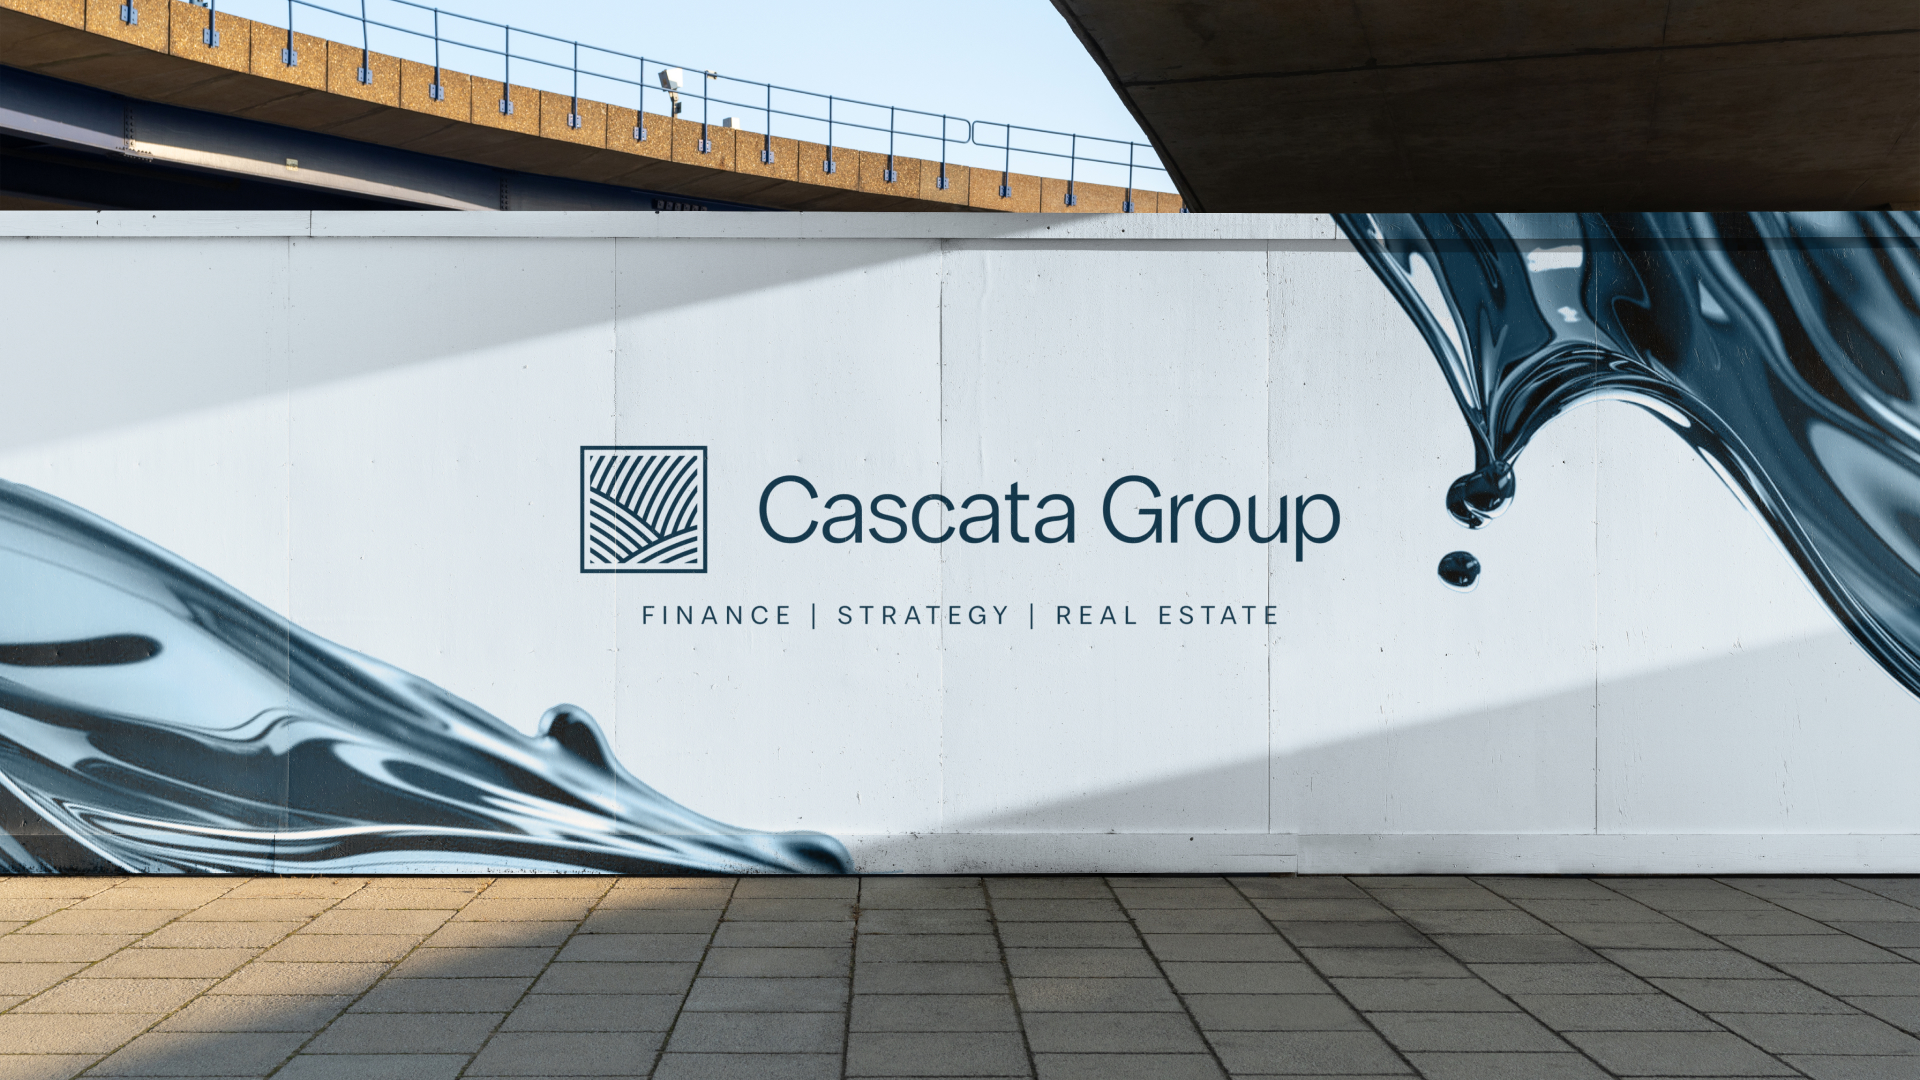
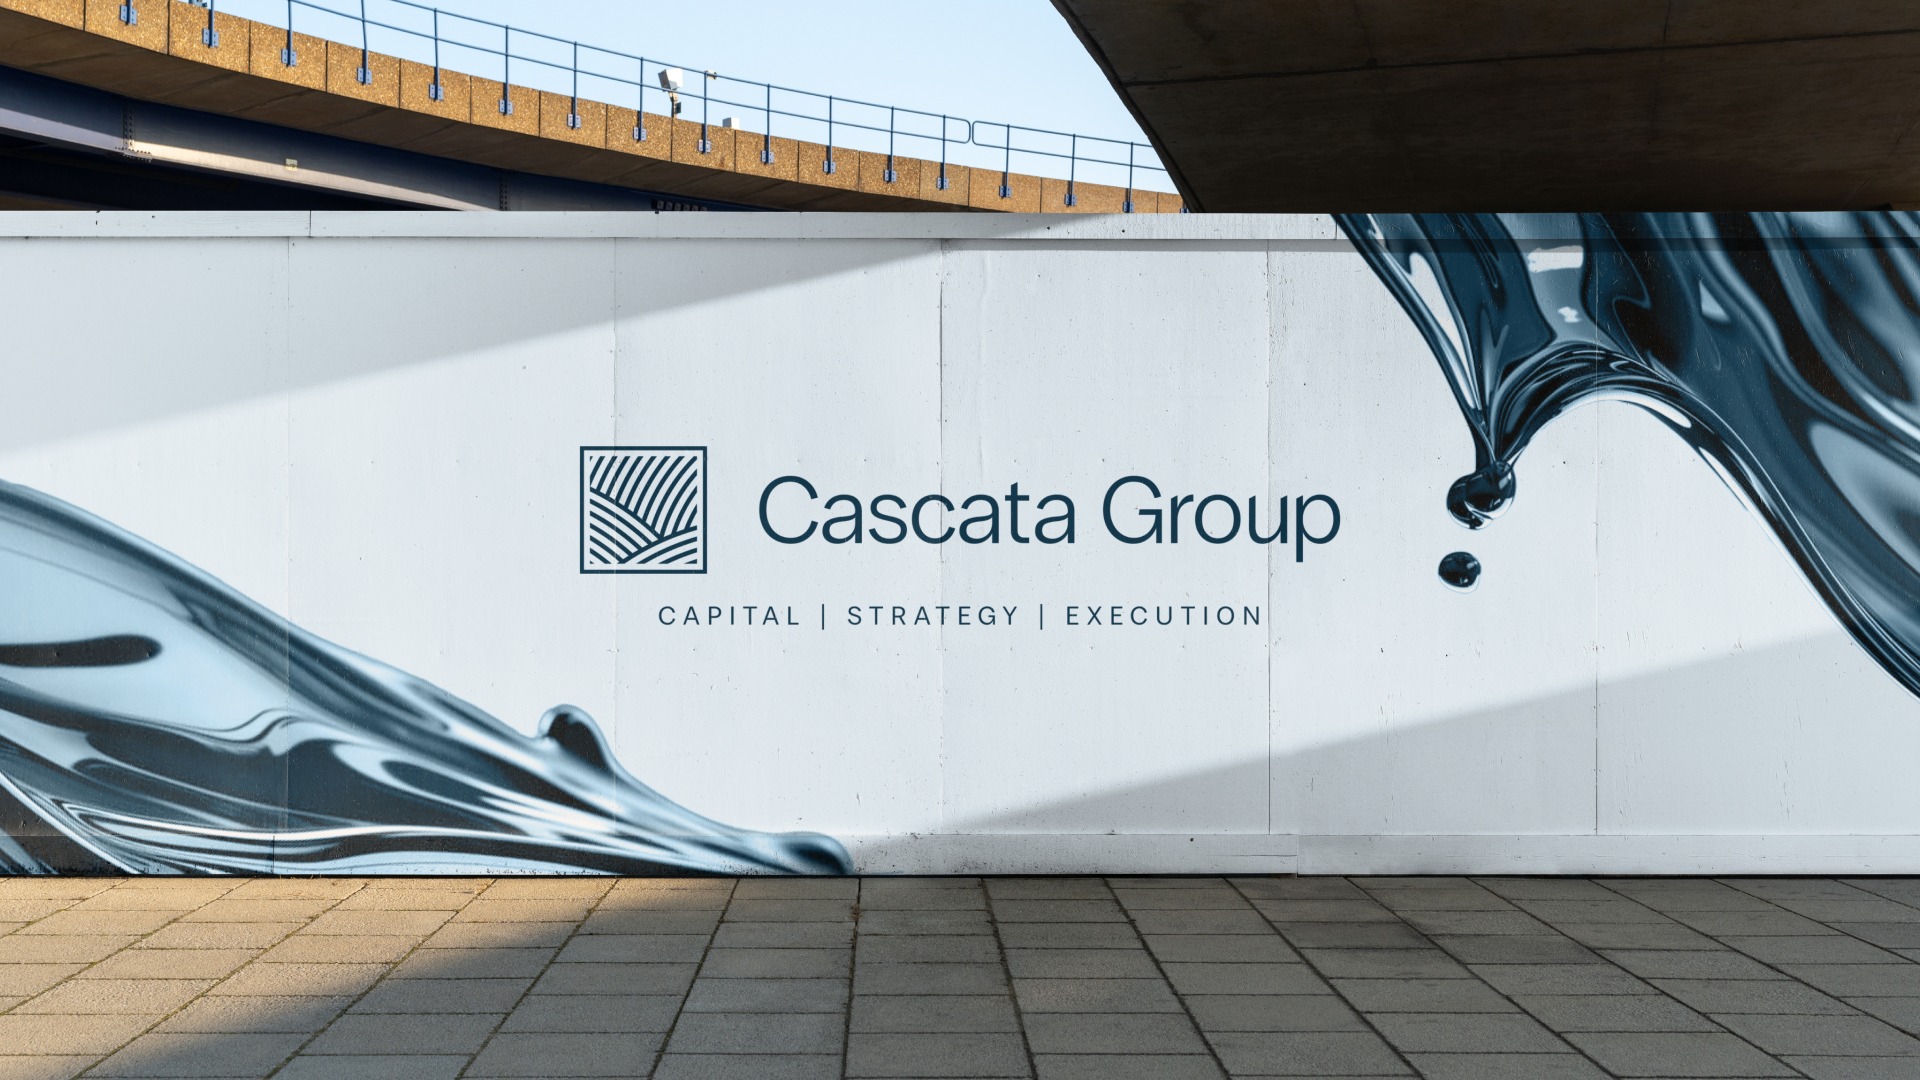
Update Cascata cover for new "Capital Strategy Execution" tagline
Re-sync the big-wall cover image and update its alt text to match the
revised brand tagline.

diff --git a/lib/projects.ts b/lib/projects.ts
@@ -210,7 +210,7 @@ export const projects: Project[] = [
         type: "cover",
         card: "cover",
         src: "/work/cascata-group/01-big-wall.jpg",
-        alt: "Cascata Group brand mark on a construction hoarding under a bridge, navy lockup with a liquid-chrome wave",
+        alt: "Cascata Group brand mark on a construction hoarding under a bridge, navy lockup and Capital Strategy Execution tagline with a liquid-chrome wave",
       },
       {
         type: "lifestyle",
